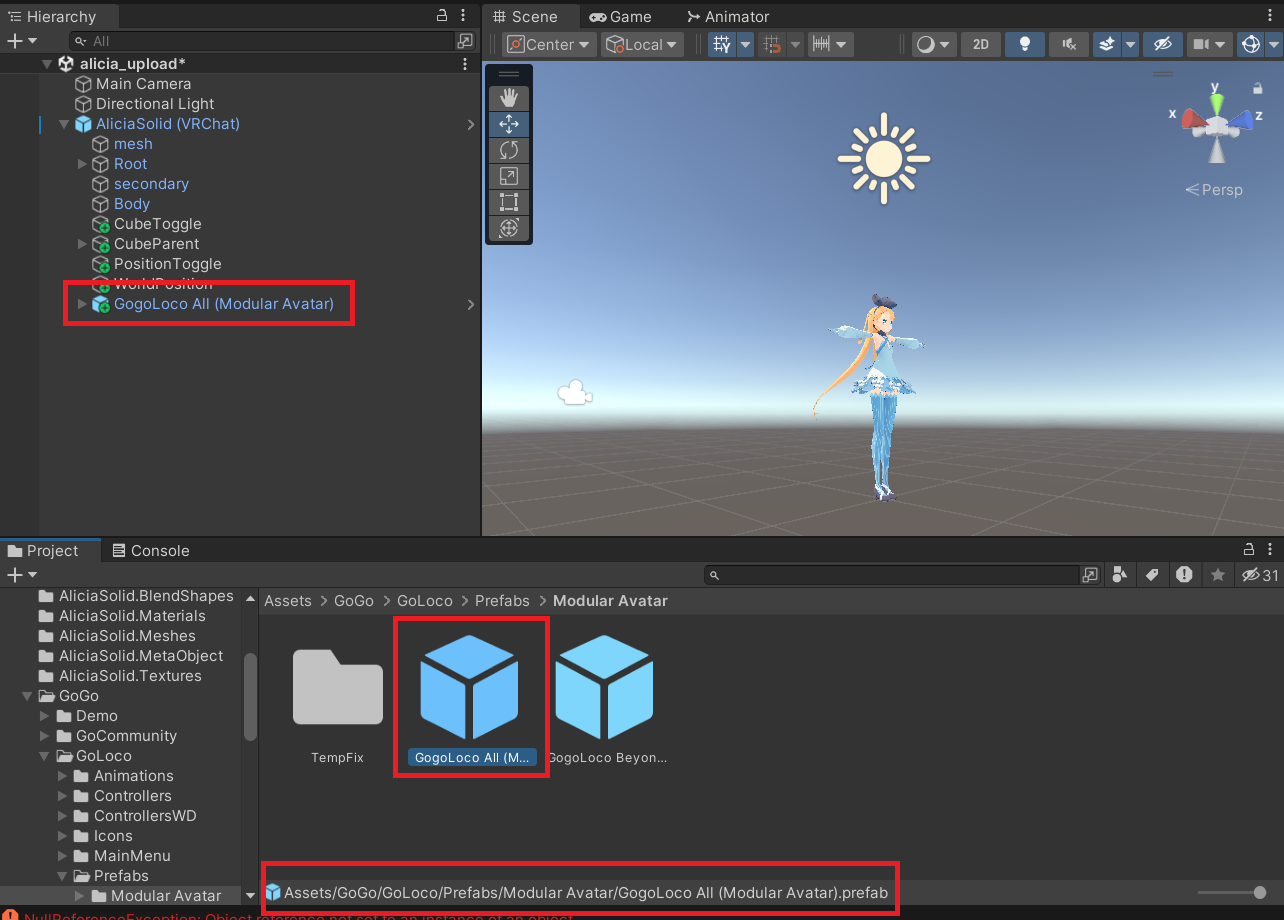
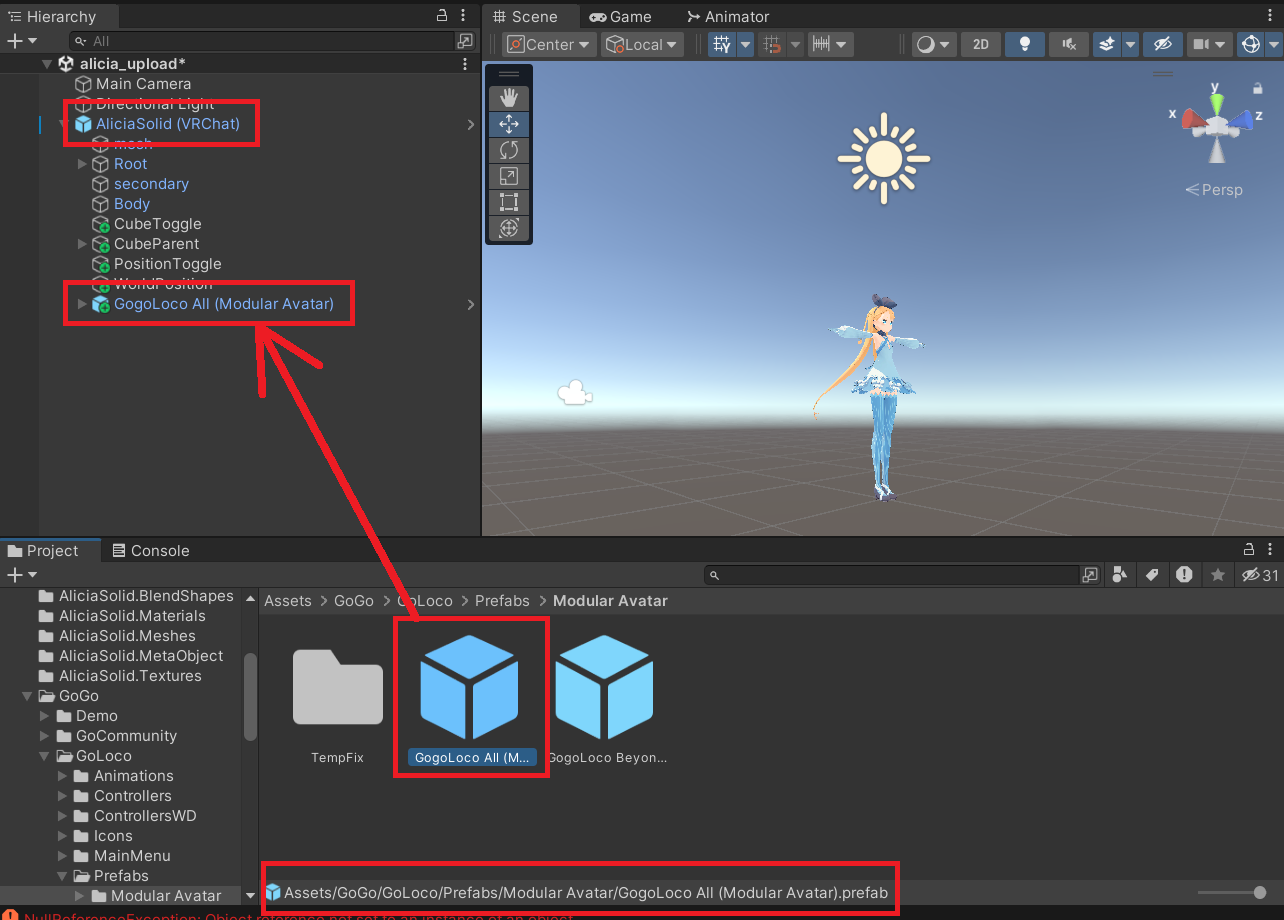
update 2025/11/16

diff --git a/markdown/2025/1116.md b/markdown/2025/1116.md
@@ -2,7 +2,7 @@
 - title=VRChatのアバターにGoGo Locoを導入して座ったり寝っ転がったりする
 - description=VRChatのアバターに座ったり寝っ転がったりするモーションを簡単に設定できるGoGo Locoの導入方法を紹介します。
 - date=2025年11月16日（日）
-- update=2025年11月16日（日）
+- update=2026年1月9日（金）
 - math=false
 - tag=vrchat
 
@@ -94,7 +94,7 @@ Unityプロジェクトを開いたら、AssetsタブからImport Package -> Cus
 ## アバターにGoGo Locoを追加
 
 Assetsフォルダ内にインポートしたGoGo Locoをアバターに追加します。
-今回はModular Avatarを使用するので、GoGo -> GoLoco -> Prefabs -> Modular Avatar -> GogoLoco All.prefabを追加します。
+今回はModular Avatarを使用するので、GoGo -> GoLoco -> Prefabs -> Modular Avatar -> GogoLoco All.prefabをHierarchyウィンドウにあるアバターにドラッグ&ドロップして追加します。
 
 ![](../../images/2025/20251116_05.png)
 
